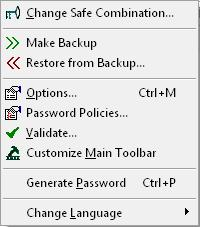
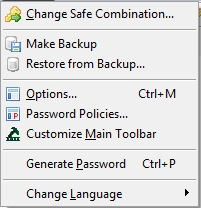
Removed Manage->Validate menu entry, as is now redundant

Changed region(s): [[0.0, 0.0, 1.0, 1.0]]

diff --git a/pwsafe/pwsafe/help/default/html/manage_menu.html b/pwsafe/pwsafe/help/default/html/manage_menu.html
@@ -67,16 +67,6 @@ described <a href="preferences.html">here</a>.</small>
 password policies.  You may create up to 255 named password policies and the name
 of each of these policies cannot be greater than 255 characters.</p>
 
-<h3>Validate</h3>
-
-<p>After selecting a database, this database will be checked for being
-completely compatible to <b>Password Safe</b>.  In order to ensue complete
-compatibility with <b>Password Safe</b>, databases are now always validated
-during opening.</p>
-
-<p><small>Note: This menu item will only be enabled if there is no database 
-currently opened.</small></p>
-
 <h3>Customize Main Toolbar</h3>
 
 <p>This allows you to select which commands appear on the toolbar, and in which order.</p>

diff --git a/pwsafe/pwsafe/docs/ReleaseNotes.html b/pwsafe/pwsafe/docs/ReleaseNotes.html
@@ -123,7 +123,8 @@ PasswordSafe will open the default "My Safes" directory as it did prior to this 
 </tr>
 <tr>
 <td align="center" width="100">n/a</td>
-<td>Databases are always validated on opening.</td>
+<td>Databases are now always validated when opened. The Manage->Validate
+menu item has therefore been removed.</td>
 </tr>
 </tbody>
 </table>

diff --git a/pwsafe/pwsafe/src/ui/Windows/MainManage.cpp b/pwsafe/pwsafe/src/ui/Windows/MainManage.cpp
@@ -245,47 +245,6 @@ int DboxMain::RestoreSafe()
   return PWScore::SUCCESS;
 }
 
-void DboxMain::OnValidate() 
-{
-  CGeneralMsgBox gmb;
-
-  if (Open(IDS_CHOOSEDATABASEV) != PWScore::SUCCESS)
-    return;
-
-  CReport rpt;
-  std::wstring cs_title;
-  LoadAString(cs_title, IDS_RPTVALIDATE);
-  rpt.StartReport(cs_title.c_str(), m_core.GetCurFile().c_str());
-
-  st_ValidateResults st_vr;
-  bool bchanged = m_core.Validate(MAXTEXTCHARS, false,  &rpt, st_vr);
-
-  std::wstring cs_msg;
-  if (!bchanged)
-    LoadAString(cs_msg, IDS_VALIDATE_OK);
-  else {
-    LoadAString(cs_msg, IDS_VALIDATE_ISSUES);
-    SetChanged(Data);
-    ChangeOkUpdate();
-  }
-
-  rpt.EndReport();
-
-  gmb.SetTitle(cs_title.c_str());
-  gmb.SetMsg(cs_msg.c_str());
-  gmb.SetStandardIcon(bchanged ? MB_ICONEXCLAMATION : MB_ICONINFORMATION);
-  gmb.AddButton(IDS_OK, IDS_OK, TRUE, TRUE);
-  if (bchanged)
-    gmb.AddButton(IDS_VIEWREPORT, IDS_VIEWREPORT);
-
-  INT_PTR rc = gmb.DoModal();
-  if (rc == IDS_VIEWREPORT)
-    ViewReport(rpt);
-
-  // Show UUID in Edit Date/Time property sheet stats
-  CAddEdit_DateTimes::m_bShowUUID = true;
-}
-
 void DboxMain::OnOptions()
 {
   PWS_LOGIT;

diff --git a/pwsafe/pwsafe/src/ui/Windows/PWToolBar.cpp b/pwsafe/pwsafe/src/ui/Windows/PWToolBar.cpp
@@ -143,7 +143,6 @@ const UINT CPWToolBar::m_OtherIDs[] = {
   ID_MENUITEM_CHANGECOMBO,
   ID_MENUITEM_BACKUPSAFE,
   ID_MENUITEM_RESTORESAFE,
-  ID_MENUITEM_VALIDATE,
   ID_MENUITEM_EXIT,
   ID_MENUITEM_ABOUT,
   ID_MENUITEM_TRAYUNLOCK,
@@ -227,7 +226,6 @@ const UINT CPWToolBar::m_OtherClassicBMs[] = {
   IDB_CHANGECOMBO_CLASSIC,
   IDB_BACKUPSAFE_CLASSIC,
   IDB_RESTORE_CLASSIC,
-  IDB_VALIDATE_CLASSIC,     // Yes, it is correct to be here twice!
   IDB_EXIT_CLASSIC,
   IDB_ABOUT_CLASSIC,
   IDB_TRAYUNLOCK_CLASSIC,
@@ -356,7 +354,6 @@ const UINT CPWToolBar::m_OtherNewBMs[] = {
   IDB_CHANGECOMBO_NEW,
   IDB_BACKUPSAFE_NEW,
   IDB_RESTORE_NEW,
-  IDB_VALIDATE_NEW,       // Yes, it is correct to be here twice!
   IDB_EXIT_NEW,
   IDB_ABOUT_NEW,
   IDB_TRAYUNLOCK_NEW,
@@ -395,7 +392,6 @@ const UINT CPWToolBar::m_OtherNewDisBMs[] = {
   IDB_CHANGECOMBO_NEW_D,
   IDB_BACKUPSAFE_NEW_D,
   IDB_RESTORE_NEW_D,
-  IDB_VALIDATE_NEW_D,       // Yes, it is correct to be here twice!
   IDB_EXIT_NEW_D,
   IDB_ABOUT_NEW_D,
   IDB_TRAYUNLOCK_NEW_D,

diff --git a/pwsafe/pwsafe/src/ui/Windows/DboxMain.cpp b/pwsafe/pwsafe/src/ui/Windows/DboxMain.cpp
@@ -466,7 +466,6 @@ BEGIN_MESSAGE_MAP(DboxMain, CDialog)
   ON_COMMAND(ID_MENUITEM_RESETCOLUMNS, OnResetColumns)
 
   // Others
-  ON_COMMAND(ID_MENUITEM_VALIDATE, OnValidate)
   // Double-click on R-O R/W indicator on StatusBar
   ON_COMMAND(IDS_READ_ONLY, OnChangeMode)
   // Double-click on filter indicator on StatusBar
@@ -680,7 +679,6 @@ const DboxMain::UICommandTableEntry DboxMain::m_UICommandTable[] = {
   {ID_MENUITEM_BACKUPSAFE, true, true, true, false},
   {ID_MENUITEM_RESTORESAFE, true, false, true, false},
   {ID_MENUITEM_OPTIONS, true, true, true, true},
-  {ID_MENUITEM_VALIDATE, false, false, false, true},
   {ID_MENUITEM_GENERATEPASSWORD, true, true, true, true},
   {ID_MENUITEM_PSWD_POLICIES, true, true, true, false},
   // Help Menu

diff --git a/pwsafe/pwsafe/src/ui/Windows/resource2.h b/pwsafe/pwsafe/src/ui/Windows/resource2.h
@@ -143,7 +143,6 @@ Do NOT change the value of any resource used in a menu from V3.17 onwards.
 #define ID_MENUITEM_RESTORESAFE         32153
 #define ID_MENUITEM_OPTIONS             32154
 #define ID_MENUITEM_CUSTOMIZETOOLBAR    32155
-#define ID_MENUITEM_VALIDATE            32156
 #define ID_MENUITEM_GENERATEPASSWORD    32157
 #define ID_LANGUAGEMENU                 32158
 #define ID_MENUITEM_PSWD_POLICIES       32159

diff --git a/pwsafe/pwsafe/src/ui/Windows/DboxMain.h b/pwsafe/pwsafe/src/ui/Windows/DboxMain.h
@@ -709,7 +709,6 @@ protected:
   afx_msg void OnDuplicateEntry();
   afx_msg void OnOptions();
   afx_msg void OnManagePasswordPolicies();
-  afx_msg void OnValidate();
   afx_msg void OnGeneratePassword();
   afx_msg void OnSave();
   afx_msg void OnAdd();
